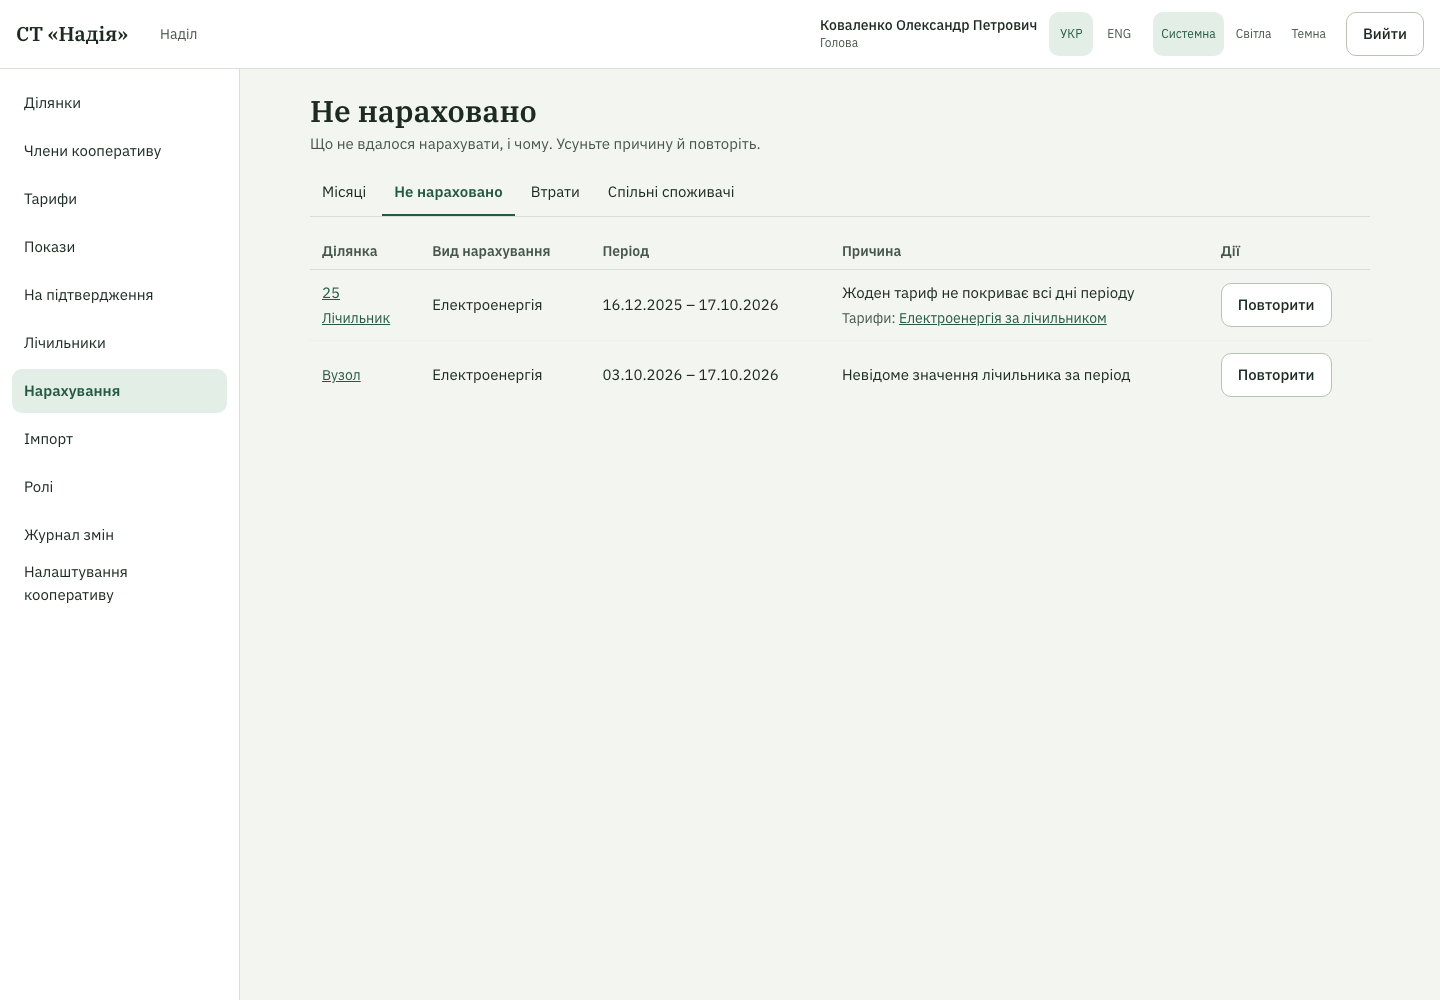
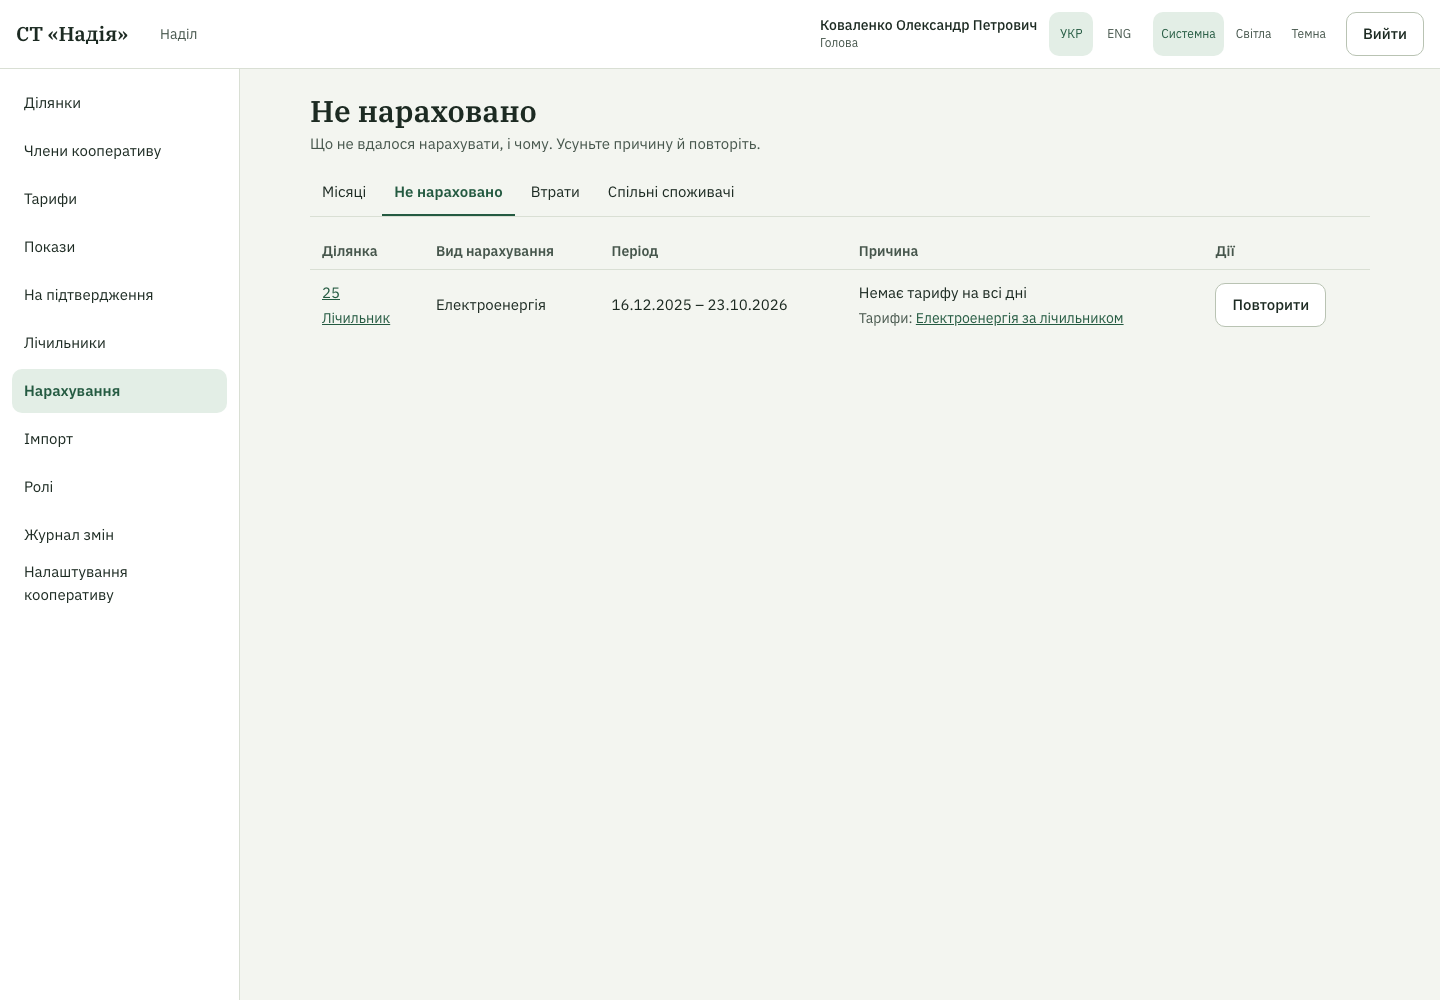
011: record the review run and refresh the not-charged screenshot

diff --git a/context/spec/011-ledger-charges-period-closing/pipeline-log.md b/context/spec/011-ledger-charges-period-closing/pipeline-log.md
@@ -1,12 +1,12 @@
 # Pipeline log — 011 Ledger, charges and period closing
 
-- Status: running
-- Phase: 5 — PR open, waiting for CI checks
+- Status: finished
+- Phase: 6 — review run running
 - Branch: 011-ledger-charges-period-closing (planned) · Base: main (= origin/main) @ 6325ed7
 - Requirement: docs/features/011-ledger-charges-period-closing.md
 - Autonomy: minimal (.claude/feature-pipeline.yml)
-- Publish: pr+checks · PR: https://github.com/Philatelist/nadel-platform/pull/41 · Checks: pending
-- Review run: on — not started yet
+- Publish: pr+checks · PR: https://github.com/Philatelist/nadel-platform/pull/41 · Checks: green
+- Review run: running at http://localhost:5173 (web) and http://localhost:8080 (backend) from worktree scratchpad/run-011 @ 61d9257 (make up; started by this run)
 
 ## Project facts
 
@@ -177,3 +177,5 @@ Same as 004–010 (see `context/spec/010-meters-and-readings/pipeline-log.md`). 
 - awos:verify done: 75/75 marked with evidence; functional-spec and technical-considerations Status Completed. charges.spec.ts queue-text assertion not run locally (owner app holds the ports) → prove via CI full-e2e label.
 - Phase 5: pushed the spec branch (no force); opened PR #41 "feat(ledger): charges ledger, billing months and period closing" with label full-e2e (proves the post-run e2e text change). Waiting for CI.
 - Phase 5: CI Backend red on coverage only (CI 0.9749 vs floor 0.975; all tests green). Floor → 0.974. Fix pushed.
+- Phase 5: CI run 2 all green (Backend, Clients, SAST, Security, End-to-end full suite with the full-e2e label).
+- Phase 6: restarted the review run (stopped the instance this run had started at e97dfcd; `make up` from scratchpad/run-011 at 61d9257). Re-captured `011-ledger-charges-period-closing-not-charged.png` with the aligned reason text. The dev DB now shows one queue item: the owner's own actions (reading on plot 20, corrected reading on plot 25, retries, a month run; audit 18:27–19:05 Kyiv) resolved the other — expected behaviour.
